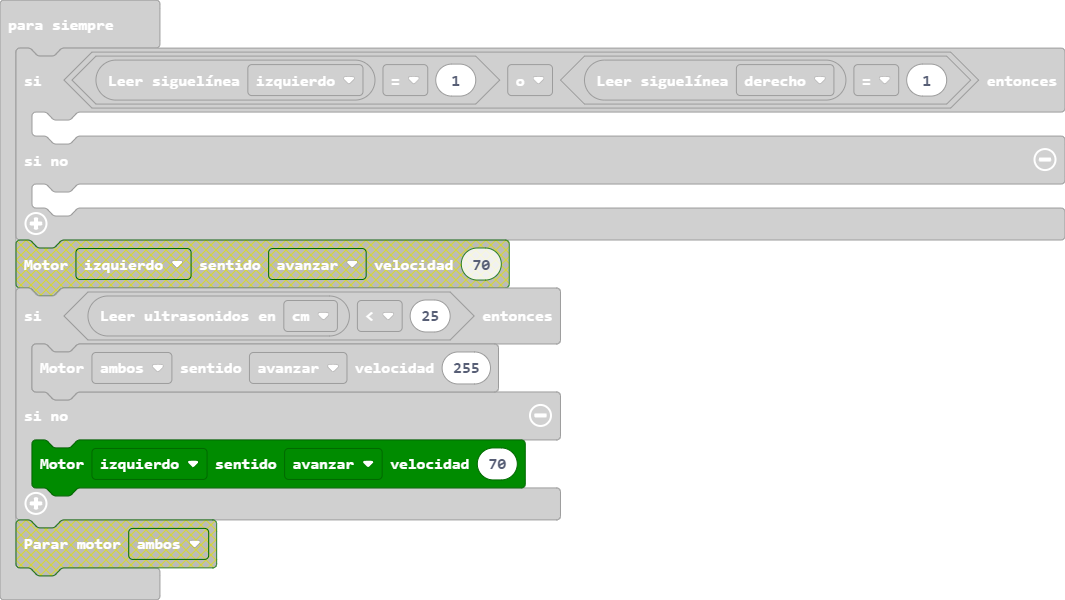
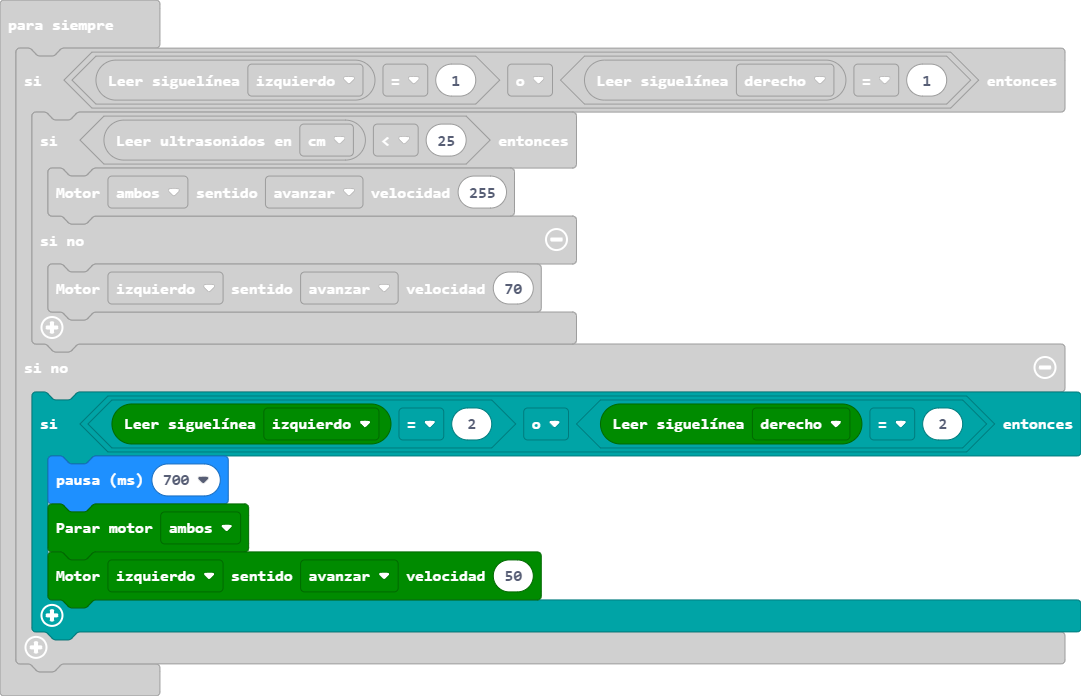
Actualizar main.blocks, main.ts

diff --git a/main.ts b/main.ts
@@ -6,6 +6,10 @@ basic.forever(function () {
             maqueen.motorRun(maqueen.Motors.M1, maqueen.Dir.CW, 70)
         }
     } else {
-    	
+        if (maqueen.readPatrol(maqueen.Patrol.PatrolLeft) == 2 || maqueen.readPatrol(maqueen.Patrol.PatrolRight) == 2) {
+            basic.pause(700)
+            maqueen.motorStop(maqueen.Motors.All)
+            maqueen.motorRun(maqueen.Motors.M1, maqueen.Dir.CW, 50)
+        }
     }
 })
